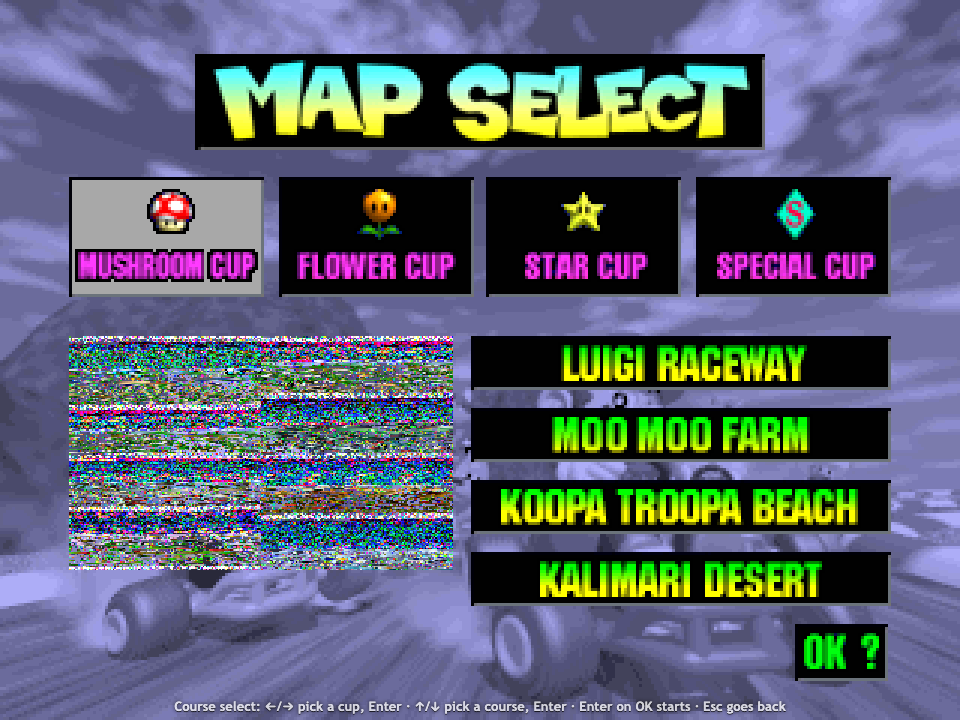
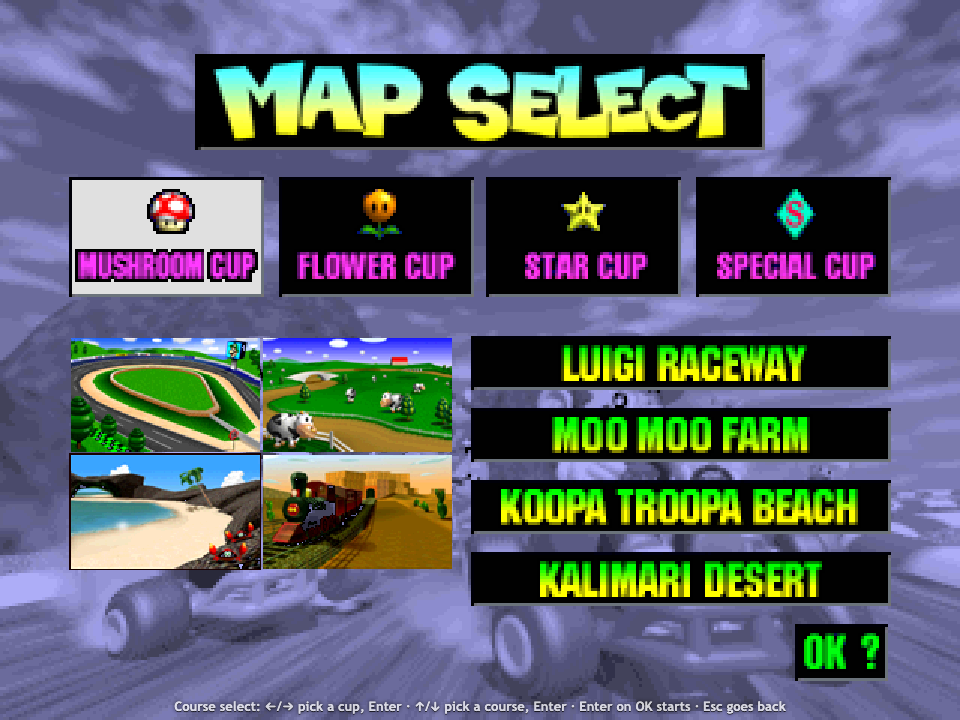
Fix scrambled course previews: ROM previews are MIO0-compressed rgba16, decompress before decoding

Changed region(s): [[0.0625, 0.4583, 0.4688, 0.7944], [0.0625, 0.2444, 0.2812, 0.4278]]

diff --git a/tools/extract-previews.py b/tools/extract-previews.py
@@ -2,15 +2,21 @@
 """Extract MK64 course preview thumbnails from a local US ROM (standard library only).
 
 Usage: python3 tools/extract-previews.py ROM --metadata /path/to/mk64/assets/course_previews.json
-The 16 race previews + 4 battle previews are raw rgba16 (no compression) and map to
-the web front end's TRACKS ids via --ids. Output: public/mk64/menu/previews/<id>.png
+The 16 race previews + 4 battle previews are MIO0-compressed rgba16 blocks (the metadata
+rom_offset points at the 'MIO0' header; see assets/include/course_previews.mk) and map to
+the web front end's TRACKS ids. Output: public/mk64/menu/previews/<id>.png
 """
 import argparse
 import hashlib
+import importlib.util
 import json
 from pathlib import Path
 import struct
 import zlib
+
+spec = importlib.util.spec_from_file_location('karts', Path(__file__).with_name('extract-karts.py'))
+karts = importlib.util.module_from_spec(spec)
+spec.loader.exec_module(karts)
 
 US_SHA1 = '579c48e211ae952530ffc8738709f078d5dd215e'
 
@@ -74,7 +80,10 @@ def extract(rom_path, metadata, output):
             raise ValueError(f'Unsupported preview format: {symbol}')
         offset = int(asset['rom_offset'], 16)
         size = asset['width'] * asset['height'] * 2
-        rgba = rgba16_to_rgba8888(rom[offset:offset + size])
+        pixels = karts.mio0(rom[offset:])
+        if len(pixels) != size:
+            raise ValueError(f'{symbol}: MIO0 block decodes to {len(pixels)} bytes, expected {size}')
+        rgba = rgba16_to_rgba8888(pixels)
         encoded = png(asset['width'], asset['height'], rgba)
         (output / f'{track_id}.png').write_bytes(encoded)
         manifest['previews'][track_id] = {'symbol': symbol, 'width': asset['width'], 'height': asset['height'],
